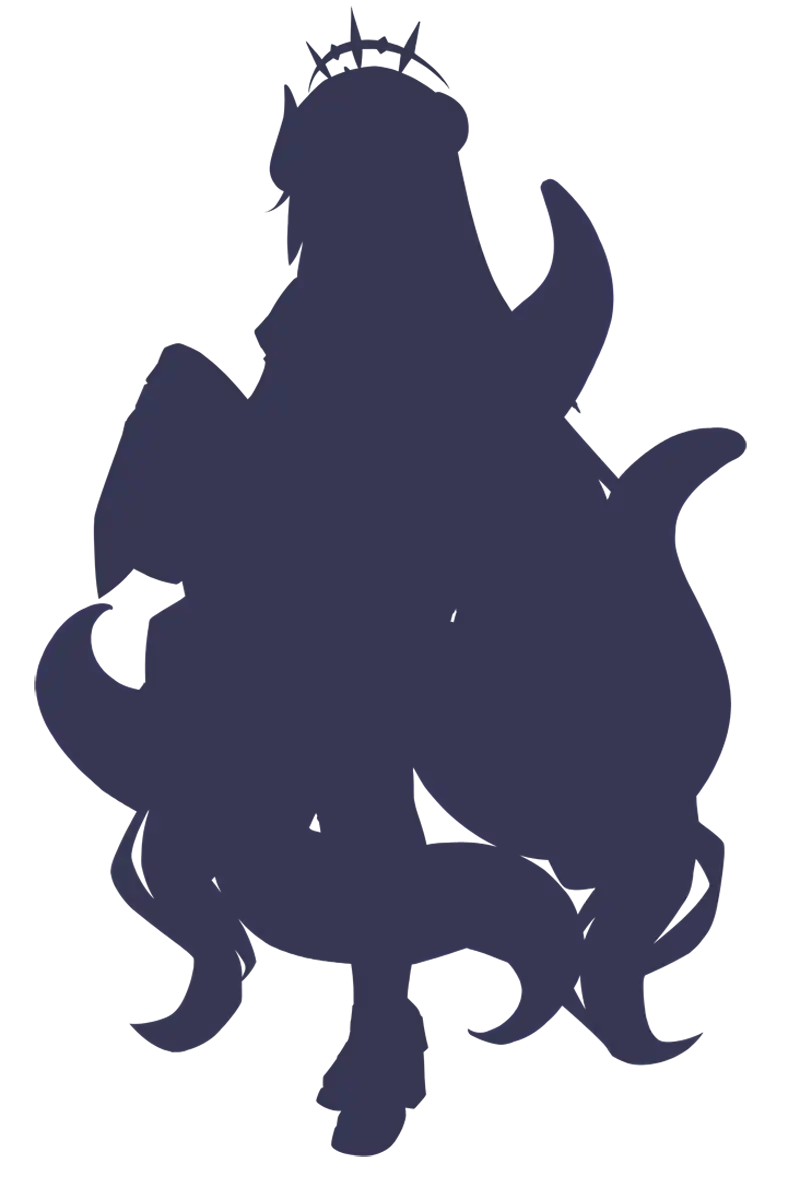
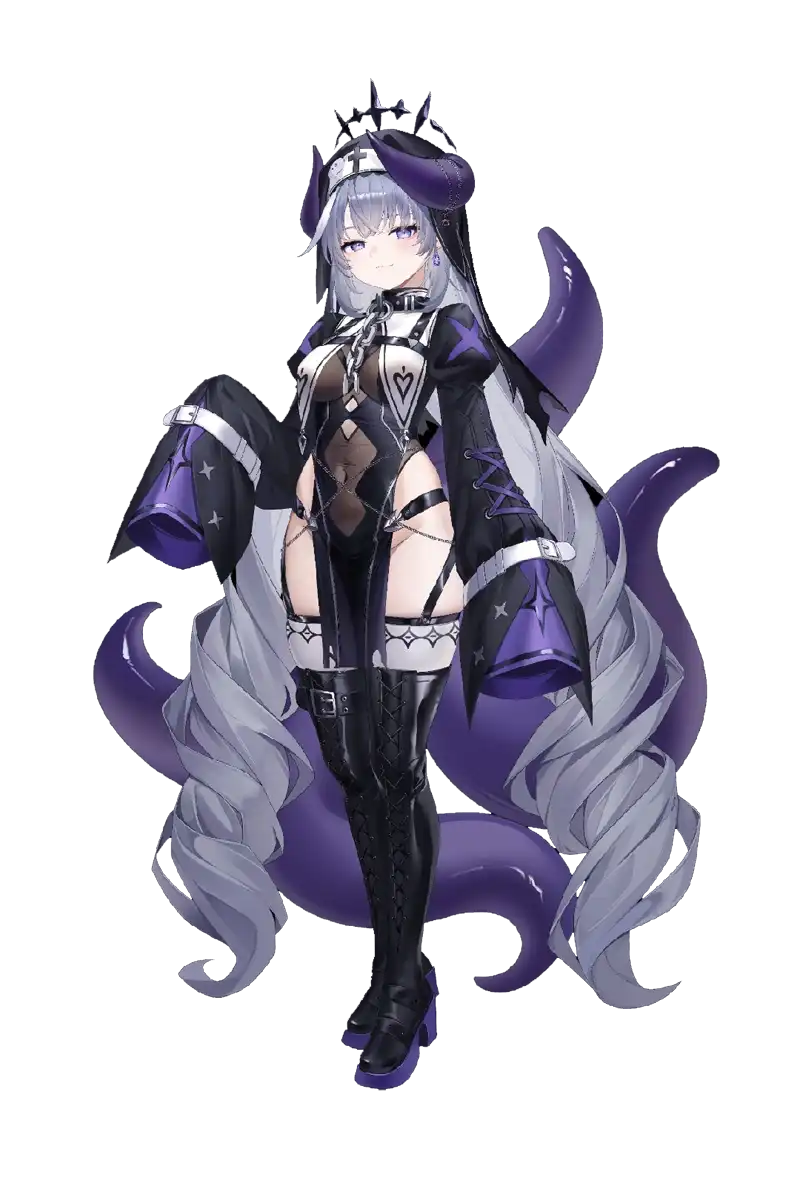
符瑶4.0

diff --git a/index.html b/index.html
@@ -1,3 +1,13 @@
+<!--
+ _____                          _                    __   __          
+|  ___|   _ _   _  __ _  ___   | |    _____   _____  \ \ / /__  _   _ 
+| |_ | | | | | | |/ _` |/ _ \  | |   / _ \ \ / / _ \  \ V / _ \| | | |
+|  _|| |_| | |_| | (_| | (_) | | |__| (_) \ V /  __/   | | (_) | |_| |
+|_|   \__,_|\__, |\__,_|\___/  |_____\___/ \_/ \___|   |_|\___/ \__,_|
+            |___/                                                     
+
+-->
+
 <!DOCTYPE html>
 <html lang="zh-CN">
 
@@ -355,7 +365,7 @@
     <div>
         <img class='grid-item grid-item-1' src='img/character6.webp' alt=''>
         <p class="character-name font-weight-blod">符瑶4.0</p>
-        <p class="character-desc">监修中......</p>
+        <p class="character-desc">符瑶的修女形象。首次采用四分之三视图。启用于2025年2月4日生日纪念回。</p>
     </div>
     <div>
         <img class='grid-item grid-item-1' src='img/character1.webp' alt=''>

diff --git a/404.html b/404.html
@@ -89,15 +89,6 @@
     
     <!-- header start -->
     <header>
-        <div class="fy-notice">
-            <a>生日快乐，烤栗子先生！Happy birthday, Mr. koritsu!</a>
-            <button class="close-btn" onclick="closeNotice()">×</button>
-        </div>
-        <script>
-            function closeNotice() {
-            document.querySelector('.fy-notice').style.display = 'none';
-        }
-        </script>
         <div class="header-content">
             <a href="https://xnn.fuyao.moe" target="_blank"> 
                 <img src="img/fuyaologo.webp" alt="Logo" class="logo">

diff --git a/zh-tw/index.html b/zh-tw/index.html
@@ -342,7 +342,7 @@
     <div>
         <img class='grid-item grid-item-1' src='../img/character6.webp' alt=''>
         <p class="character-name font-weight-blod">符瑤4.0</p>
-        <p class="character-desc">監修中......</p>
+        <p class="character-desc">符瑤的修女形象。首次採用四分之三視角。啟用於2025年2月4日生日紀念回。</p>
     </div>
     <div>
         <img class='grid-item grid-item-1' src='../img/character1.webp' alt=''>
